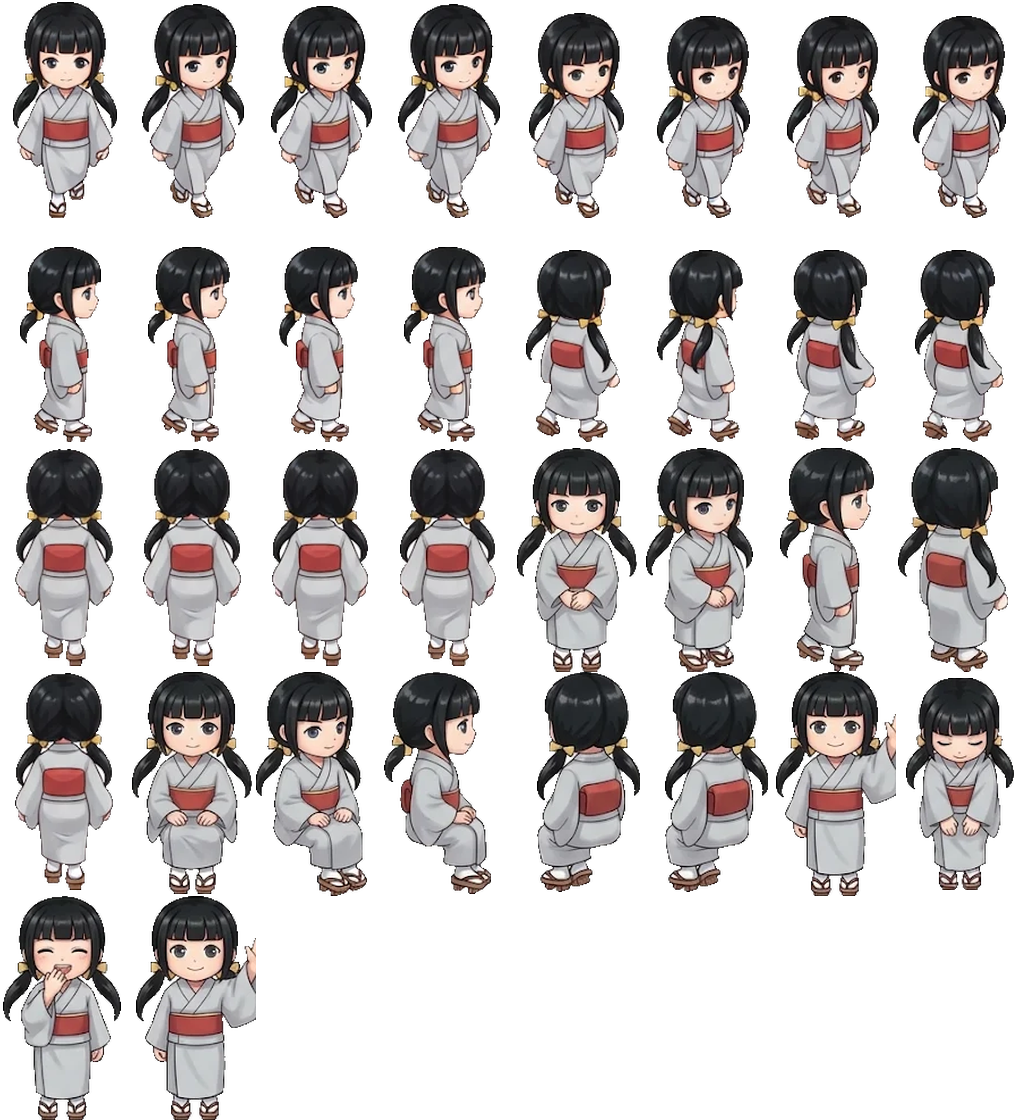
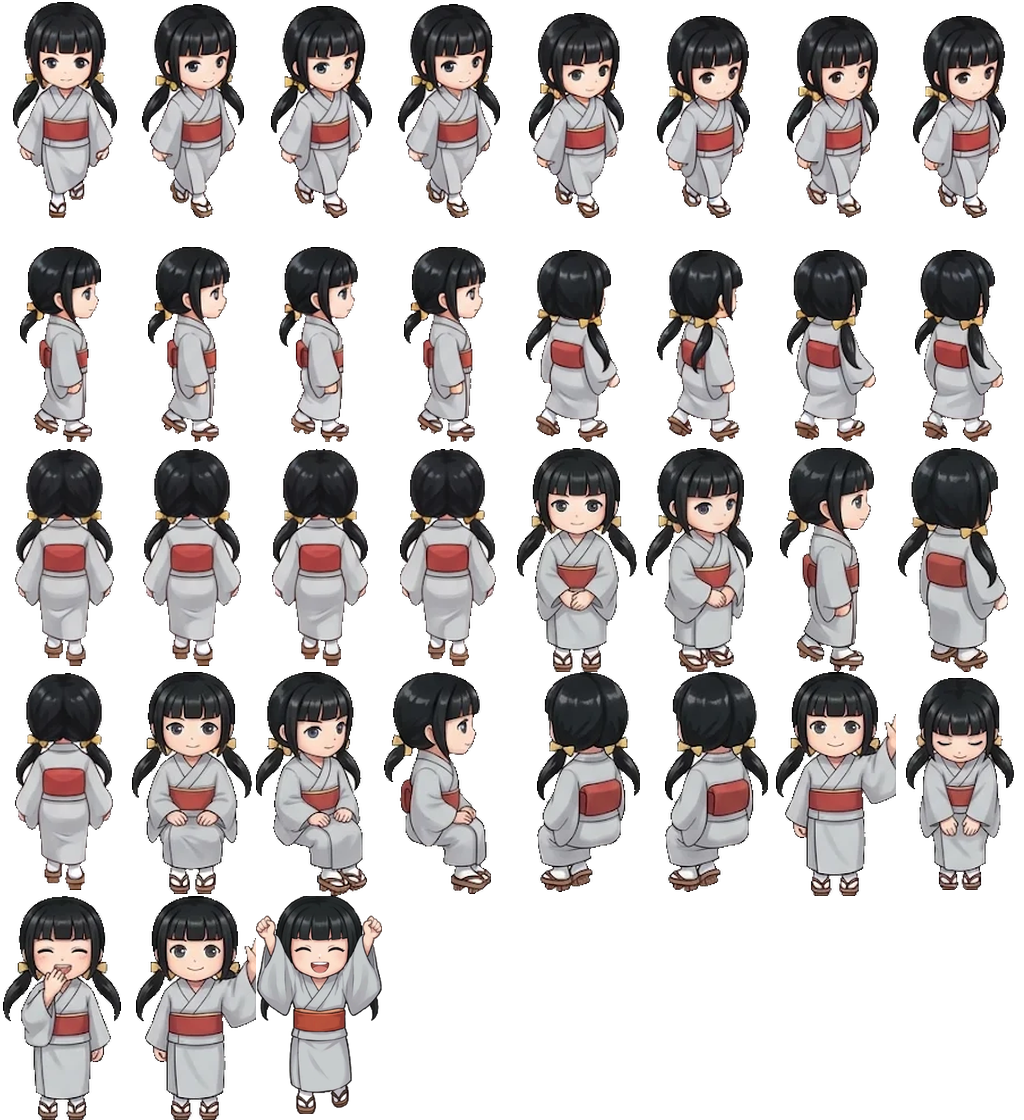
立繪修正：二つ結び 歡呼動作重畫、坊主坐下斜前的長椅細線清除
Claude-Session: https://claude.ai/code/session_015uMb1f52jTuSYsWXuczzAi

Changed region(s): [[0.25, 0.7812, 0.375, 1.0]]

diff --git a/js/game.js b/js/game.js
@@ -5,16 +5,16 @@ import { EffectComposer } from 'three/addons/postprocessing/EffectComposer.js';
 import { RenderPass } from 'three/addons/postprocessing/RenderPass.js';
 import { UnrealBloomPass } from 'three/addons/postprocessing/UnrealBloomPass.js';
 import { OutputPass } from 'three/addons/postprocessing/OutputPass.js';
-import { buildWorld, walkable, heightAt } from './world.js?v=202611190902';
-import { RIDE_Y } from './chara.js?v=202611190902';
-import { Chara, randomLook, KIMONO, OBI, PATTERNS, HAIRS, SKINS, EYES, BROWS, MOUTHS, CHEEKS, MOLES, FACES, OUTFITS, OUTER, FEATS } from './chara.js?v=202611190902';
-import { SChara, preloadSprites, spritesReady, setSprCam, SPR_LIGHT, ARCH_LIST, ARCH_NAME, AR2H, archOf } from './sprite.js?v=202611190902';
-import { SHOPS, FORTUNE, ACC, SLOT_NAME } from './shops.js?v=202611190902';
-import { initMatsuri, updMatsuri, FEST, nextFestIn } from './matsuri.js?v=202611190902';
-import { Net } from './net.js?v=202611190902';
-import { cleanText } from './filter.js?v=202611190902';
-import { SND } from './audio.js?v=202611190902';
-import * as TX from './tex.js?v=202611190902';
+import { buildWorld, walkable, heightAt } from './world.js?v=202611190920';
+import { RIDE_Y } from './chara.js?v=202611190920';
+import { Chara, randomLook, KIMONO, OBI, PATTERNS, HAIRS, SKINS, EYES, BROWS, MOUTHS, CHEEKS, MOLES, FACES, OUTFITS, OUTER, FEATS } from './chara.js?v=202611190920';
+import { SChara, preloadSprites, spritesReady, setSprCam, SPR_LIGHT, ARCH_LIST, ARCH_NAME, AR2H, archOf } from './sprite.js?v=202611190920';
+import { SHOPS, FORTUNE, ACC, SLOT_NAME } from './shops.js?v=202611190920';
+import { initMatsuri, updMatsuri, FEST, nextFestIn } from './matsuri.js?v=202611190920';
+import { Net } from './net.js?v=202611190920';
+import { cleanText } from './filter.js?v=202611190920';
+import { SND } from './audio.js?v=202611190920';
+import * as TX from './tex.js?v=202611190920';
 
 const SERVER = new URLSearchParams(location.search).has('test') ? '' : (new URLSearchParams(location.search).get('server') || window.EDO_SERVER || '');
 const QS = new URLSearchParams(location.search);

diff --git a/js/sprite.js b/js/sprite.js
@@ -1,9 +1,9 @@
 // 2D 手繪立繪人物（RO 式紙娃娃）：一個面向鏡頭的平面＋換色著色器；每人 1 次繪製
 // SChara 與 3D 的 Chara 介面相同（root、setLook、play、update、say、emoji、setName、lod、setRide、updRide、headG、foodG、accG、waistG），遊戲端直接替換
 import * as THREE from 'three';
-import { Chara, KIMONO, OBI } from './chara.js?v=202611190902';
-import * as TX from './tex.js?v=202611190902';
-import { ACC } from './shops.js?v=202611190902';
+import { Chara, KIMONO, OBI } from './chara.js?v=202611190920';
+import * as TX from './tex.js?v=202611190920';
+import { ACC } from './shops.js?v=202611190920';
 
 const ATLAS = {}; // 原型名 → { tex, mask, meta }
 export const ARCH_LIST = ['f1', 'f2', 'f3', 'f4', 'm1', 'm2', 'm3', 'm4', 'f5', 'f6', 'f7', 'f8', 'f9', 'm5']; // 新的只能接在後面（玩家存的是編號）

diff --git a/js/world.js b/js/world.js
@@ -1,11 +1,11 @@
 // 江戶町 3D 世界
 import * as THREE from 'three';
 import { mergeGeometries } from 'three/addons/utils/BufferGeometryUtils.js';
-import * as TX from './tex.js?v=202611190902';
-import { SHOPS, STREET } from './shops.js?v=202611190902';
-import { buildTemple } from './temple.js?v=202611190902';
-import { buildMeisho, KINKAKU_POND } from './meisho.js?v=202611190902';
-import { buildMeisho2, walkSouth } from './meisho2.js?v=202611190902';
+import * as TX from './tex.js?v=202611190920';
+import { SHOPS, STREET } from './shops.js?v=202611190920';
+import { buildTemple } from './temple.js?v=202611190920';
+import { buildMeisho, KINKAKU_POND } from './meisho.js?v=202611190920';
+import { buildMeisho2, walkSouth } from './meisho2.js?v=202611190920';
 
 const PI = Math.PI;
 export const ARCH = x => (x > 110 && x < 140) ? 1.7 * Math.sin(PI * (x - 110) / 30) : 0;

diff --git a/index.html b/index.html
@@ -360,6 +360,6 @@ body.touch #held{left:calc(12px + var(--sl));bottom:auto;top:calc(100px + var(--
 </div></div>
 <div id="toast"></div>
 <script>addEventListener("error",e=>{const d=document.getElementById("loading");d.classList.remove("hide");d.style.fontSize="16px";d.textContent="錯誤："+e.message+" @"+(e.filename||"").split("/").pop()+":"+e.lineno});addEventListener("unhandledrejection",e=>{const d=document.getElementById("loading");d.classList.remove("hide");d.style.fontSize="16px";d.textContent="錯誤："+(e.reason&&e.reason.stack||e.reason)})</script>
-<script type="module" src="js/game.js?v=202611190902"></script>
+<script type="module" src="js/game.js?v=202611190920"></script>
 </body>
 </html>

diff --git a/js/meisho.js b/js/meisho.js
@@ -1,7 +1,7 @@
 // 江戶町 名所：雷門、海上大鳥居（嚴島）、千本鳥居（伏見稻荷）、金閣寺（鹿苑寺）、五重塔
 // 靜態物件全部 bake 進合併網格（不增加繪製次數）；走近按 E 有特寫與介紹
 import * as THREE from 'three';
-import { hipRoof } from './temple.js?v=202611190902';
+import { hipRoof } from './temple.js?v=202611190920';
 const PI = Math.PI;
 
 export const KINKAKU_POND = { x: 180, z: 78, rx: 21, rz: 15 }; // 金閣寺鏡湖池（不可走入）

diff --git a/js/meisho2.js b/js/meisho2.js
@@ -1,7 +1,7 @@
 // 江戶町 名所南區（神社南門出去）：江戶城天守、不忍池弁天堂、歌舞伎中村座、回向院相撲土俵
 // 靜態物件全部 bake 進合併網格；走近按 E 有特寫與介紹
 import * as THREE from 'three';
-import { hipRoof } from './temple.js?v=202611190902';
+import { hipRoof } from './temple.js?v=202611190920';
 const PI = Math.PI;
 
 export const SHINOBAZU = { x: -122, z: 102, rx: 15, rz: 11, isl: 4.6 }; // 不忍池（中島可走、北側石橋）

diff --git a/js/chara.js b/js/chara.js
@@ -1,6 +1,6 @@
 // 江戶人物（程式建模 v2）：有膝蓋的雙腿、上身＋下襬、細緻臉部、和服袖、足袋木屐、髮型、配件、花魁
 import * as THREE from 'three';
-import * as TX from './tex.js?v=202611190902';
+import * as TX from './tex.js?v=202611190920';
 import { mergeGeometries } from '../vendor/addons/utils/BufferGeometryUtils.js';
 
 export const KIMONO = [
